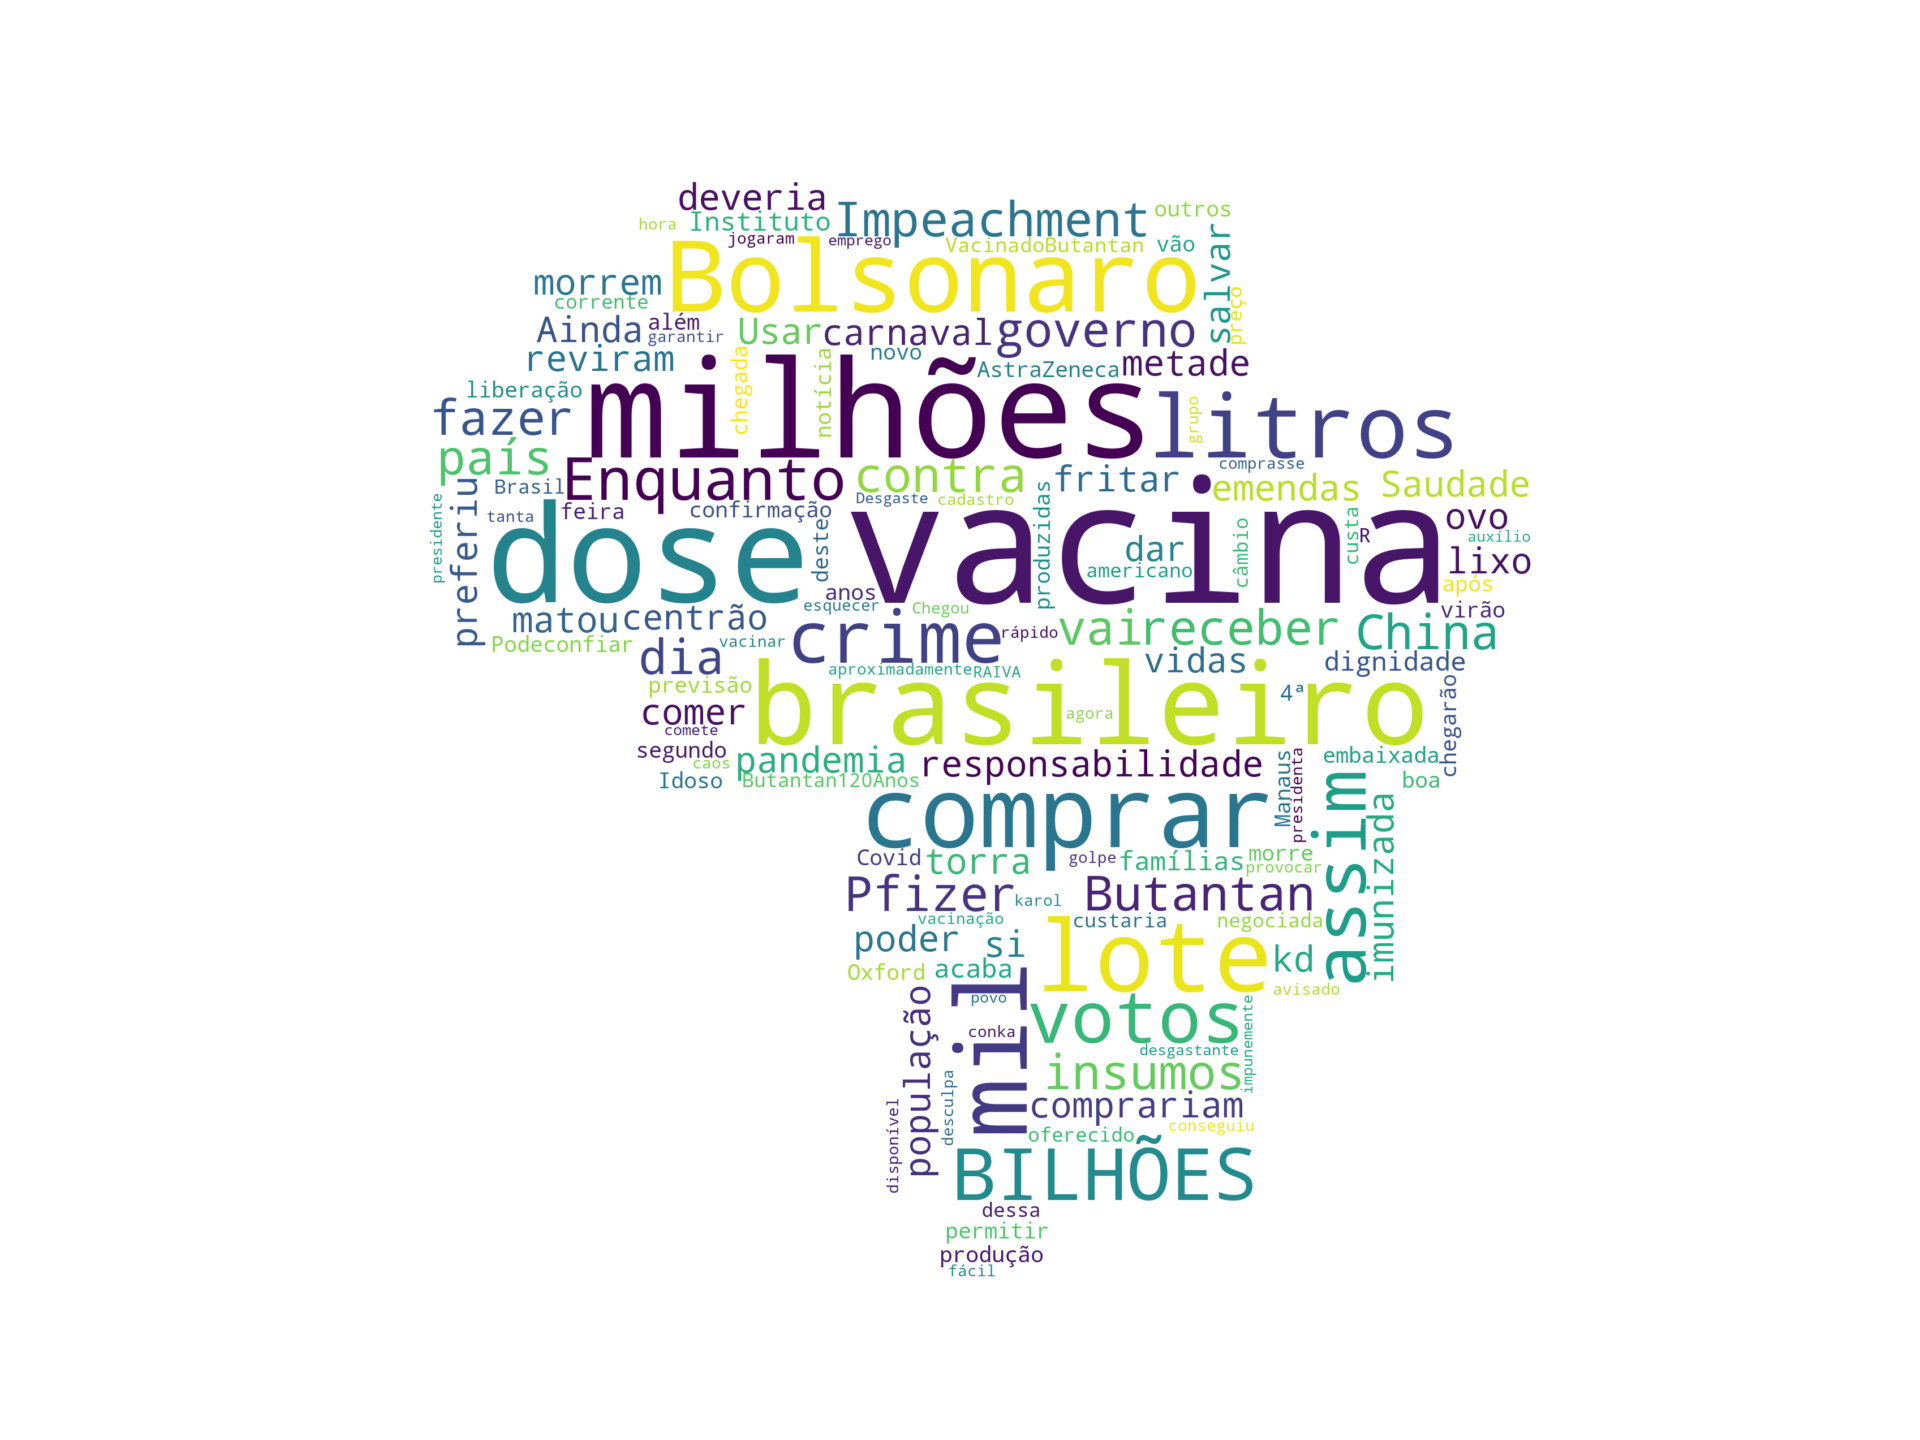
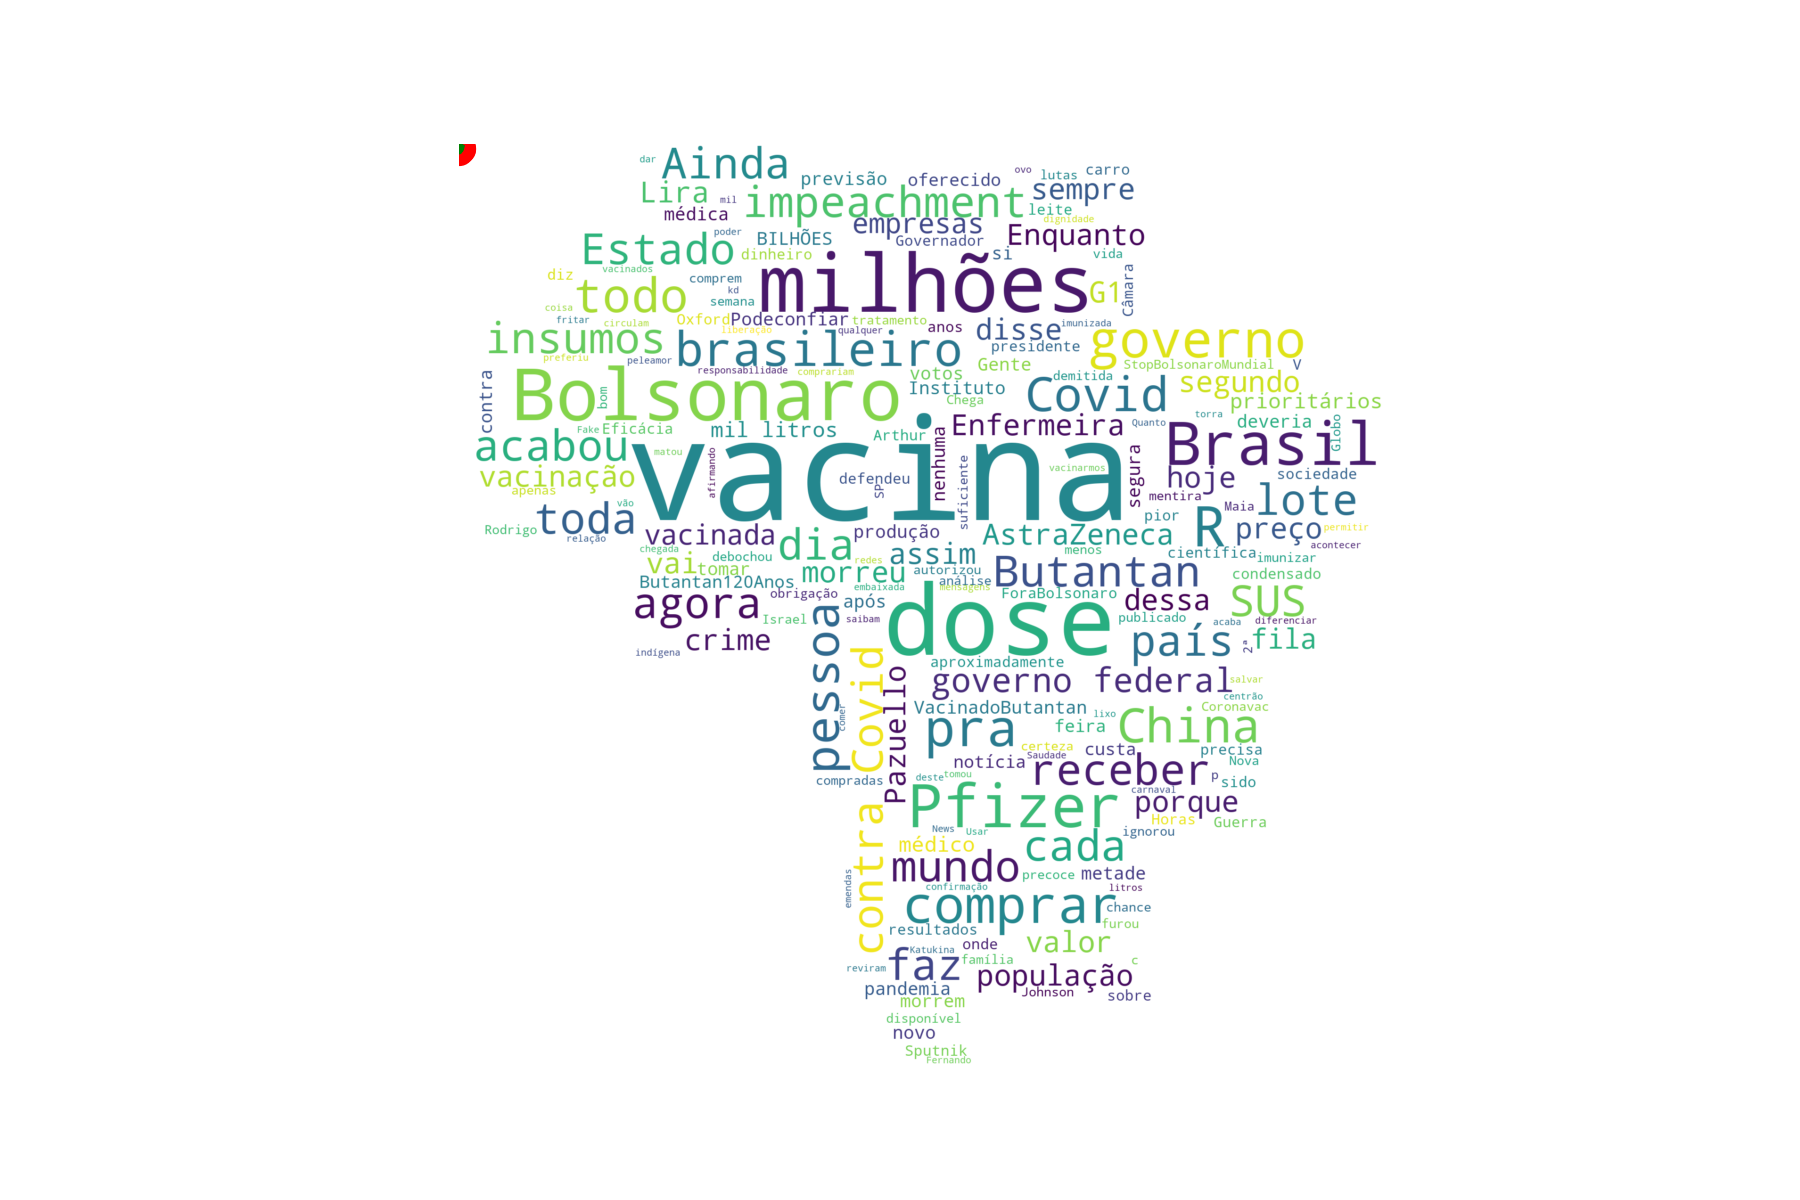
Adicionando novos graficos

Changed region(s): [[0.2178, 0.1233, 0.8089, 0.8942], [0.2489, 0.1233, 0.28, 0.1542]]

diff --git a/index.html b/index.html
@@ -34,10 +34,6 @@
             <div class="col-8">
                 <div class="row align-items-center">
                     <h3 class="col-8">Resultados</h3>
-                    <span class="col-4">
-                        Positivos: <span id="positive"> </span> <span class="text-danger">Negativos:</span> <span
-                            id="negative"> </span>
-                    </span>
                 </div>
                 <hr>
                 <div row align-items-center>
@@ -51,8 +47,12 @@
                                 aria-controls="word" aria-selected="false">Nuvem de Palavras</a>
                         </li>
                         <li class="nav-item" role="presentation">
-                            <a class="nav-link" id="profile-tab" data-bs-toggle="tab" href="#profile" role="tab"
-                                aria-controls="profile" aria-selected="false">Gráficos</a>
+                            <a class="nav-link" id="graphic-tab" data-bs-toggle="tab" href="#graphic" role="tab"
+                                aria-controls="graphic" aria-selected="false">Porcentagem</a>
+                        </li>
+                        <li class="nav-item" role="presentation">
+                            <a class="nav-link" id="linetime-tab" data-bs-toggle="tab" href="#linetime" role="tab"
+                                aria-controls="linetime" aria-selected="false">Linha do Tempo</a>
                         </li>
                         <li class="nav-item" role="presentation">
                             <a class="nav-link" id="contact-tab" data-bs-toggle="tab" href="#contact" role="tab"
@@ -70,8 +70,15 @@
                                 
                             </div>
                         </div>
-                        <div class="tab-pane fade" id="profile" role="tabpanel" aria-labelledby="profile-tab">
-
+                        <div class="tab-pane fade" id="graphic" role="tabpanel" aria-labelledby="graphic-tab">
+                            <div id="url_graphic" class="img-fluid">
+                                
+                            </div>
+                        </div>
+                        <div class="tab-pane fade" id="linetime" role="tabpanel" aria-labelledby="linetime-tab">
+                            <div id="url_line_time" class="img-fluid">
+                                
+                            </div>
                         </div>
                         <div class="tab-pane fade" id="contact" role="tabpanel" aria-labelledby="contact-tab">
 
@@ -83,10 +90,8 @@
             </div>
         </div>
     </main>
-
-
 </body>
     <footer class="bg-light text-center py-2 mt-2">
-        Projeto 2 da disciplina de IA | UFS - 2021
+        Projeto II - Inteligência Artificial | UFS - 2021
     </footer>
 </html>

diff --git a/assets/js/scripts.js b/assets/js/scripts.js
@@ -1,18 +1,6 @@
 const api_url = "http://127.0.0.1:5000";
 
-function hiliter(word, element) {
-    var rgxp = new RegExp(word, 'g');
-    var repl = '<span class="highlight">' + word + '</span>';
-    element.innerHTML = element.innerHTML.replace(rgxp, repl);
-}
-
-
 $(document).ready(function () {
-
-    $('#positive').html('0%')
-    $('#negative').html('0%')
-
-  
 
     let url_word_cloud
     $('#enviar').click(function () {
@@ -33,20 +21,20 @@ $(document).ready(function () {
             
             success: function (response) {
                 $('#loading-frame').removeClass('d-flex justify-content-center align-items-center');
-                $('#positive').html(`${response.positive}%`)
-                $('#negative').html(`${response.negative}%`)
 
                 let list_ol = ''
                 for (elem of response.data) {
                     classe = elem["SA NLTK"] == -1 ? "class='text-danger'" : "";
                     list_ol += `<li ${classe}>${elem.Tweets}</li>`;
                 }
+                d = new Date();
+
                 $("#list_tweets").html(list_ol)
                 $('#list_tweets li').mark($('input[name=query_param]').val(), {accuracy: "exactly"})
-                d = new Date();
-                $("#url_word_cloud").css("background-image", `url('${response.img_path}?${d.getTime()}')`)
-             
-                
+                $("#url_word_cloud").css("background-image", `url('${response.img_wd_path}?${d.getTime()}')`)
+                $("#url_graphic").css("background-image", `url('${response.img_gp_path}?${d.getTime()}')`)
+                $("#url_line_time").css("background-image", `url('${response.img_tl_path}?${d.getTime()}')`)        
+
             },
             error: function (response) {
                 alert('Não foi possivel conectar ao servidor')

diff --git a/assets/css/styles.css b/assets/css/styles.css
@@ -16,8 +16,7 @@
   height: 100px;
 }
 
-
-#url_word_cloud{
+#url_word_cloud, #url_graphic, #url_line_time{
   background-repeat: no-repeat;
   background-size: contain;
   height: 800px;

diff --git a/twitter_analysis.py b/twitter_analysis.py
@@ -17,6 +17,7 @@ from sklearn.naive_bayes import MultinomialNB
 #Expressoes regulares
 import re
 
+#erros
 import warnings
 
 #Criar API
@@ -57,7 +58,10 @@ class TwitterAnalysis():
         self.words = None
         self.words_clean = None
         self.file_mask = 'Utilitarios/mask.png'
-        self.image = 'Word_Cloud.png'
+
+        self.image_word_cloud = 'Word_Cloud.png'
+        self.image_graphic = 'Graphic.png'
+        self.image_Time_line = 'Time_line.png'
     
         self.vectorizer = None
         self.modelo = None
@@ -65,8 +69,8 @@ class TwitterAnalysis():
 
 
     def auth(self):
-
-
+       
+        
         auth = tweepy.OAuthHandler(consumer_key,consumer_secret)
         auth.set_access_token(access_token,access_token_secret)
 
@@ -98,8 +102,8 @@ class TwitterAnalysis():
             file.write(newtweet+'\n')
             file.close()
             
-            if(count == 10):
-                break
+            # if(count == 10):
+            #     break
             count = count + 1
         return tweets, info
 
@@ -208,17 +212,43 @@ class TwitterAnalysis():
 
         plt.imshow(wc, interpolation="bilinear")
         plt.axis("off")
-        plt.savefig(self.image, dpi=300)
+        plt.savefig(self.image_word_cloud, dpi=300)
         plt.close()
 
-        return self.image
-    '''#def create_dados_por_dia(self)
-            #def create_
+        return self.image_word_cloud
 
+    def create_graphic(self, percent_positive, percent_negative):
+        sentiments = ['Positivos', 'Negativos']
+        percents = [percent_positive, percent_negative]
     
-    
-    '''
-    
+        cores = ['green', 'red']
+        explode = (0.1, 0) 
+        total = sum(percents)
+
+        plt.pie(percents, labels=sentiments, colors=cores, explode=explode, autopct=lambda p: '{:.2f}%'.format(p), shadow=True, startangle=90)
+        plt.savefig(self.image_graphic, format='png')
+        plt.close()
+
+        return self.image_graphic
+
+    def create_time_line(self):
+        data = self.tweets_df
+
+        data['Date'] = pd.to_datetime(data['Date']).apply(lambda x: x.date())
+
+        tlen = pd.Series(data['Date'].value_counts(), index=data['Date'])
+        tlen = tlen.drop_duplicates()
+        tlen = sorted(tlen.items())
+        
+        x = [value[0].strftime("%d/%m/%y") for value in tlen]
+        y = [value[1] for value in tlen]
+        
+        plt.figure(figsize=(6,4))
+        plt.plot(x, y, color='green')
+        plt.scatter(x, y, color='red')
+        plt.savefig(self.image_Time_line, format='png')
+
+        return self.image_Time_line
 
 app = Flask("twitter_analysis")
 CORS(app)
@@ -231,6 +261,7 @@ def execute_analysis():
     analise.tweets_df =  analise.create_dataframe()
     analise.source_tweets(analise.tweets_df)
     analise.trainnig()
+
     resultado = analise.execute()
 
     percent_positive, percent_negative =  analise.get_result(resultado[0],resultado[1])
@@ -239,7 +270,9 @@ def execute_analysis():
         "positive": round(percent_positive,2),
         "negative": round(percent_negative,2),
         "data": analise.create_json(),
-        "img_path": analise.create_word_cloud()
+        "img_wd_path": analise.create_word_cloud(),
+        "img_gp_path": analise.create_graphic(percent_positive,percent_negative),
+        "img_tl_path": analise.create_time_line()
     }
 
 app.run(debug=True)
